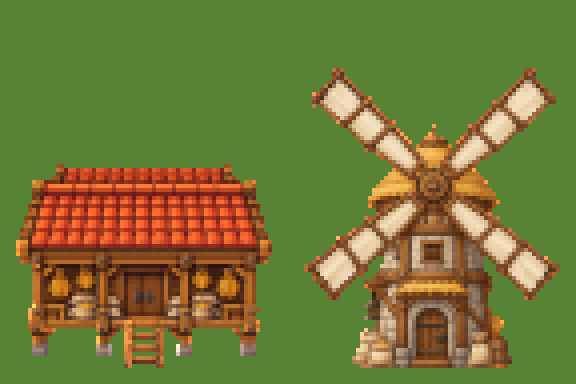
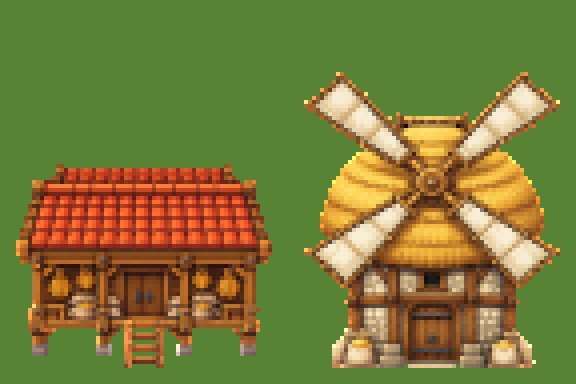
docs(art): windmill redrawn with the roof top visible; style rule for towers and non-house buildings

Changed region(s): [[0.5312, 0.1562, 0.9688, 0.9688]]

diff --git a/docs/art-review/g3e/buildings/make_prompts.py b/docs/art-review/g3e/buildings/make_prompts.py
@@ -39,7 +39,7 @@ GROUPS = {
         ('building_wheat_scarecrow', 'Bù Nhìn Gác (scarecrow watch tower, tower, TALL building but at most 520 px)',
          'a short wooden watch platform with a small straw roof and a big straw-hat scarecrow standing on it holding a sling, ladder at the front, sacks on the rail.'),
         ('building_wheat_windmill', 'Cối Xay Gió (windmill, economy)',
-         'a stone-and-timber windmill with four cloth-sail blades facing the viewer (the blades are seen frontally, not turned), a small thatched cap, a door at the front center and flour sacks. Keep the facade straight-on.'),
+         'a stone-and-timber windmill whose body is straight and upright, seen from a HIGH viewpoint looking DOWN: the viewer clearly sees the TOP of the windmill, i.e. the upper surface of its large rounded thatched cap/dome (a visible oval-ish roof plane with rows of straw, seen from above), not just its side profile and not a pointed tip seen sideways. Four cloth-sail blades are mounted on the front of the cap, frontal to the viewer (not turned). A door at the front center, a short stone base and flour sacks. Keep the facade straight-on; do not rotate or tilt the body.'),
     ]),
 }
 

diff --git a/docs/ART_STYLE.md b/docs/ART_STYLE.md
@@ -114,7 +114,9 @@ Concept preview only; native sprite size and pixel cleanup are a separate produc
 
 > Khi tạo qua Codex/imagegen để cắt sprite trong repo, thay dòng "transparent background" bằng nền **đen phẳng #000000** (không quầng sáng, không bóng, không nền đất): công cụ `make_assets.py` tách nền đen thành alpha 0/255 rồi thu nhỏ về 64 px ảnh rộng. Chiều cao tối đa 80 px ảnh (một ô bàn cờ); công trình thấp (ruộng) có thể thấp hơn.
 
-**Kiểm trước khi duyệt:** mặt tiền thẳng · không lộ tường bên · mái có chiều sâu mà nhà không xoay · nhận ra chức năng · đủ mái/chân · đọc được khi thu nhỏ. Nếu ảnh bị xéo, sửa hướng nhà trước khi thêm chi tiết.
+**Công trình không phải nhà mái dốc (tháp, cối xay, đài, lò…):** vẫn đúng một quy tắc — mặt tiền thẳng, điểm nhìn CAO nhìn xuống nên PHẢI THẤY PHẦN NÓC/ĐỈNH: thấy mặt trên của mái nón, mái vòm, nắp tháp, mặt bục hoặc miệng lò từ trên xuống (đỉnh là một hình bầu dục/chữ nhật dẹt có chiều rộng nhìn thấy, không phải chỉ một đường nét hay chóp nhọn nhìn ngang). Đỉnh công trình hướng lên và hơi ra phía người xem; thân công trình thẳng đứng, không xiên, không nghiêng sang bên. Cánh cối xay, cờ, cột nhô lên chỉ là phụ kiện gắn trên phần nóc/thân, không thay thế phần nóc đó.
+
+**Kiểm trước khi duyệt:** mặt tiền thẳng · thấy được phần nóc/mái từ trên xuống (kể cả tháp, cối xay) · không lộ tường bên · mái có chiều sâu mà nhà không xoay · nhận ra chức năng · đủ mái/chân · đọc được khi thu nhỏ. Nếu ảnh bị xéo, sửa hướng nhà trước khi thêm chi tiết.
 
 ## Hiển thị
 

diff --git a/docs/art-review/g3e/buildings/wheat/building_wheat_windmill/prompt.md b/docs/art-review/g3e/buildings/wheat/building_wheat_windmill/prompt.md
@@ -12,7 +12,7 @@ Roof ridge runs LEFT TO RIGHT, parallel to the facade. Show a broad front roof p
 smaller rear roof strip above the ridge, matching the reference's stylized roof geometry.
 Keep the house front-facing while revealing the roof; do not turn it sideways.
 Compact readable silhouette, cozy warm medieval pixel art, crisp square pixel clusters,
-upper-left lighting, dark material-colored outlines. a stone-and-timber windmill with four cloth-sail blades facing the viewer (the blades are seen frontally, not turned), a small thatched cap, a door at the front center and flour sacks. Keep the facade straight-on. Theme: farm kingdom: warm bright wood, golden straw, clay tiles, grain sacks, wooden fences, gold and earth tones.
+upper-left lighting, dark material-colored outlines. a stone-and-timber windmill whose body is straight and upright, seen from a HIGH viewpoint looking DOWN: the viewer clearly sees the TOP of the windmill, i.e. the upper surface of its large rounded thatched cap/dome (a visible oval-ish roof plane with rows of straw, seen from above), not just its side profile and not a pointed tip seen sideways. Four cloth-sail blades are mounted on the front of the cap, frontal to the viewer (not turned). A door at the front center, a short stone base and flour sacks. Keep the facade straight-on; do not rotate or tilt the body. Theme: farm kingdom: warm bright wood, golden straw, clay tiles, grain sacks, wooden fences, gold and earth tones.
 Whole building visible, transparent background, padding around roof and feet.
 No people, text, labels, UI, watermark, blur or antialiasing.
 Concept preview only; native sprite size and pixel cleanup are a separate production step.
